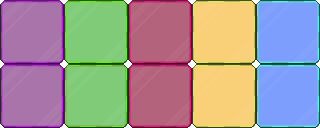
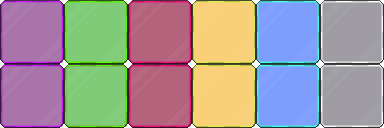
highlights: add gray hl, use for pickup/drop actions

diff --git a/js/game-view.js b/js/game-view.js
@@ -197,8 +197,8 @@ class GameView {
         this._highlight_sprites = {
             neutral: new graphics.Sprite(sprite_defs.highlight_blue),
             movement: new graphics.Sprite(sprite_defs.highlight_green),
-            take: new graphics.Sprite(sprite_defs.highlight_blue),
-            drop: new graphics.Sprite(sprite_defs.highlight_blue),
+            take: new graphics.Sprite(sprite_defs.highlight_gray),
+            drop: new graphics.Sprite(sprite_defs.highlight_gray),
             basic_action: new graphics.Sprite(sprite_defs.highlight_yellow),
             action_range: new graphics.Sprite(sprite_defs.highlight_yellow),
             action: new graphics.Sprite(sprite_defs.highlight_red),

diff --git a/js/game-assets.js b/js/game-assets.js
@@ -451,6 +451,14 @@ const sprite_defs = {
         ],
         animations: highlight_animations,
     },
+    highlight_gray : {
+        image: "highlights",
+        frames: [
+            { x:320, y:0, width:64, height:64 },
+            { x:320, y:64, width:64, height:64 },
+        ],
+        animations: highlight_animations,
+    },
 
 };
 
